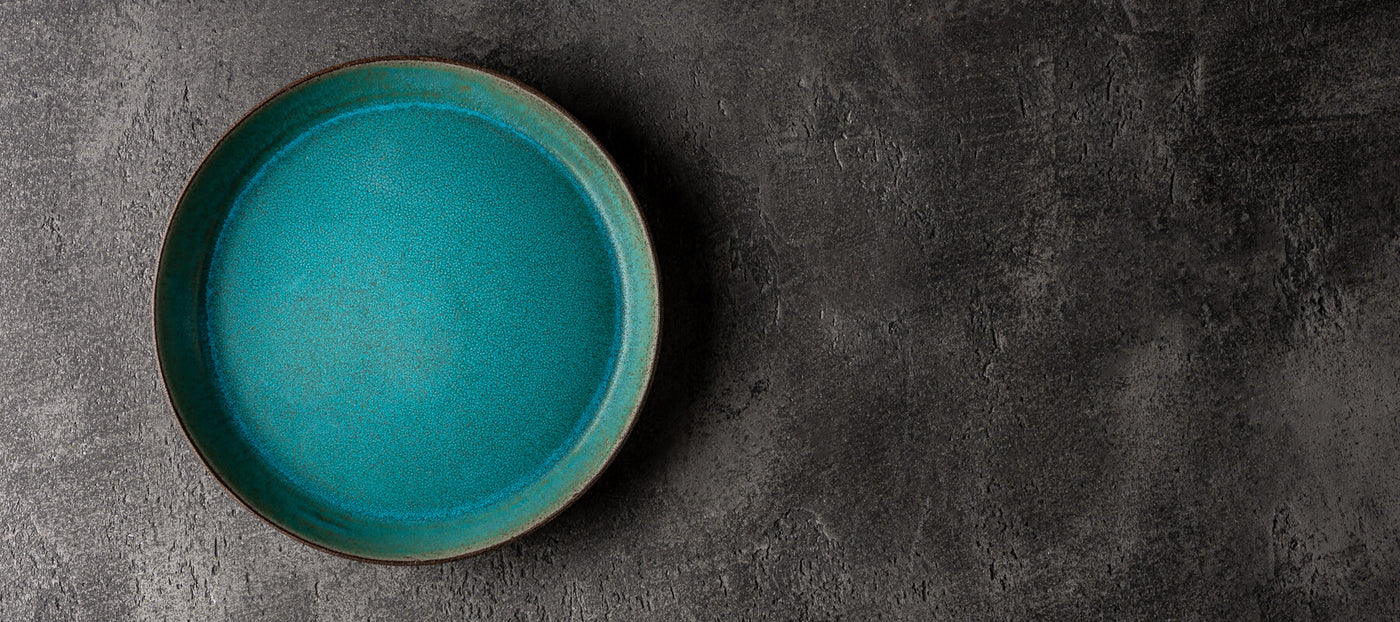
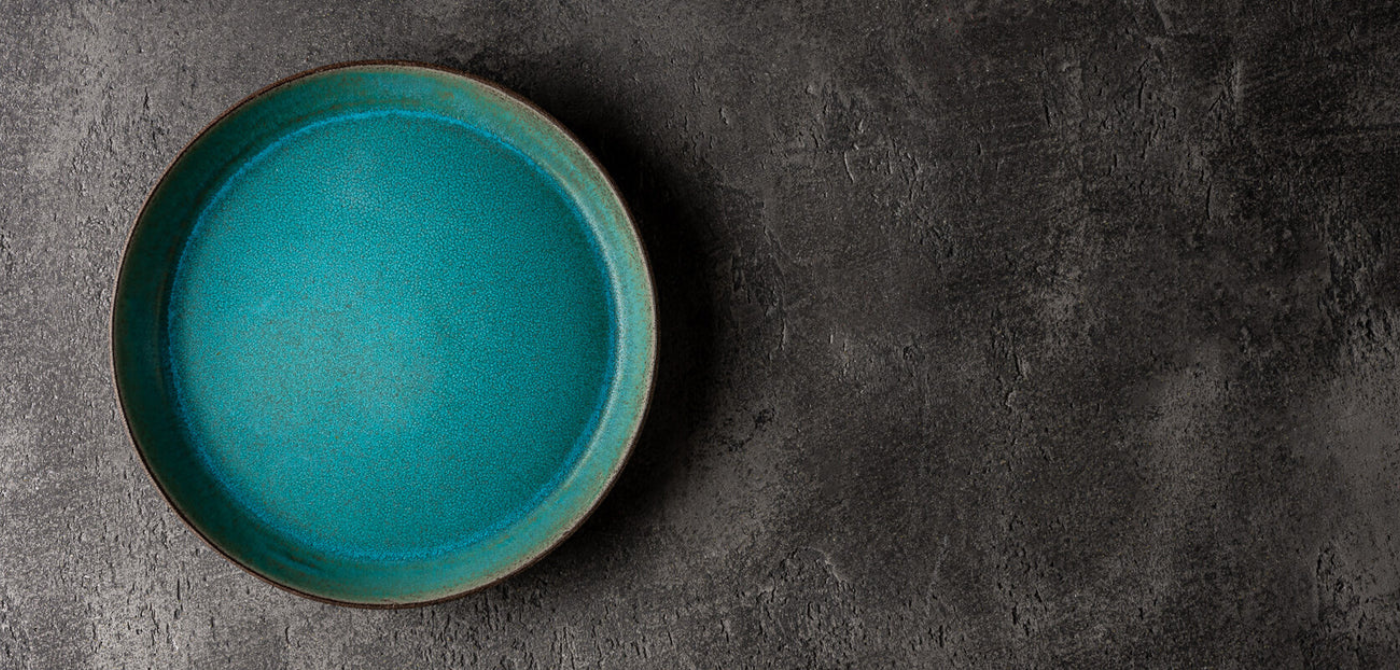
update huong Please enter the commit message foes. Lines starting

diff --git a/index - Copy.html b/index - Copy.html
@@ -116,15 +116,14 @@
         <div id="header-carousel" class="carousel slide" data-bs-ride="carousel">
             <div class="carousel-inner">
                 <div class="carousel-item active">
-                    <img class="w-100" src="img/carousel-1.7.jpg" alt="Image">
+                    <img class="w-100" src="img/carousel-1.5.jpg" alt="Image">
                     <div class="carousel-caption">
                         <div class="container">
                             <div class="row justify-content-start">
                                 <div class="col-lg-7">
                                     <h1 class="display-2 mb-5 animated slideInDown">Exclusive Ceramics and Pottery Retailers </h1>
-                                    <a href="product.html" class="btn btn-primary rounded-pill py-sm-3 px-sm-5">Product</a>
-                                    <a href="product.html" class="btn btn-primary rounded-pill py-sm-3 px-sm-5">Shop Now</a>
-                                
+                                    <a href="product.html" class="btn btn-primary rounded-pill py-sm-3 px-sm-5">Shop our Collection</a>
+                                    <a href="#tab-2" id="hot-summer-sale-button" class="btn btn-primary rounded-pill py-sm-3 px-sm-5">Hot Summer Sale</a>
                                 </div>
                             </div>
                         </div>
@@ -136,31 +135,40 @@
                         <div class="container">
                             <div class="row justify-content-start">
                                 <div class="col-lg-7">
-                                     <!-- 
+                                    <!-- 
                                     <h1 class="display-2 mb-5 animated slideInDown">Transform Your Space with Timeless Ceramics</h1>
                                     <a href="" class="btn btn-primary rounded-pill py-sm-3 px-sm-5">Products</a>
                                     <a href="" class="btn btn-secondary rounded-pill py-sm-3 px-sm-5 ms-3">Services</a>
                                      -->
-                                    
                                 </div>
                             </div>
                         </div>
                     </div>
                 </div>
             </div>
-            <button class="carousel-control-prev" type="button" data-bs-target="#header-carousel"
-                data-bs-slide="prev">
+            <button class="carousel-control-prev" type="button" data-bs-target="#header-carousel" data-bs-slide="prev">
                 <span class="carousel-control-prev-icon" aria-hidden="true"></span>
                 <span class="visually-hidden">Previous</span>
             </button>
-            <button class="carousel-control-next" type="button" data-bs-target="#header-carousel"
-                data-bs-slide="next">
+            <button class="carousel-control-next" type="button" data-bs-target="#header-carousel" data-bs-slide="next">
                 <span class="carousel-control-next-icon" aria-hidden="true"></span>
                 <span class="visually-hidden">Next</span>
             </button>
         </div>
     </div>
     <!-- Carousel End -->
+    <script>
+        document.addEventListener('DOMContentLoaded', function () {
+            document.getElementById('hot-summer-sale-button').addEventListener('click', function(event) {
+                event.preventDefault(); // Ngăn chặn hành động mặc định của liên kết
+                // Kích hoạt tab "Hot Summer Sale"
+                var myTab = new bootstrap.Tab(document.querySelector('a[href="#tab-2"]'));
+                myTab.show();
+                // Cuộn mượt đến phần tử có id là "tab-2"
+                document.getElementById('#tab-2').scrollIntoView({ behavior: 'smooth' });
+            });
+        });
+    </script>
  
     
 
@@ -262,121 +270,15 @@
                 </div>
             </div>
             <div class="tab-content">
-                <!--New Arrivals-->
-                <div id="tab-1" class="tab-pane fade show p-0 active">
-                    <div class="row g-4">
-                        <div class="col-md-4 wow fadeInUp" data-wow-delay="0.1s">
-                            <div class="product-item">
-                                <div class="position-relative bg-light overflow-hidden">
-                                    <a href = "Bloating_Vase.html"><img class = "img-fluid" src="img/product-12.jpg" alt="" ></a>
-                                    <div class="bg-primary rounded text-white position-absolute start-0 top-0 m-4 py-1 px-3">New</div>
-                                </div>
-                                <div class="text-center p-4">
-                                    <a class="d-block h5 mb-2" href="Bloating_Vase.html">Black Cup</a>
-                                    <span class="text-primary me-1">$28.00</span>
-                                </div>
-                                <div class="d-flex border-top">
-                                    <small class="w-50 text-center border-end py-2">
-                                        <a class="text-body" href="Bloating_Vase.html"><i class="fa fa-eye text-primary me-2" ></i>View detail</a>
-                                    </small>
-                                    <small class="w-50 text-center py-2">
-                                        <a class="text-body" onclick="addToCart()"><i class="fa fa-shopping-bag text-primary me-2"></i>Add to cart</a>
-                                    </small>
-                                </div>
-                            </div>
-                        </div>
-                        <div class="col-md-4 wow fadeInUp" data-wow-delay="0.3s">
-                            <div class="product-item">
-                                <div class="position-relative bg-light overflow-hidden">
-                                    <a href = "Basic_White_Vase.html"><img class="img-fluid" src="img/product-2.jpg" alt=""></a>
-                                    <div class="bg-primary rounded text-white position-absolute start-0 top-0 m-4 py-1 px-3">New</div>
-                                </div>
-                                <div class="text-center p-4">
-                                    <a class="d-block h5 mb-2" href="Basic_White_Vase.html">Basic White Vase</a>
-                                    <span class="text-primary me-1">$39.00</span>
-                                </div>
-                                <div class="d-flex border-top">
-                                    <small class="w-50 text-center border-end py-2">
-                                        <a class="text-body" href="Basic_White_Vase.html"><i class="fa fa-eye text-primary me-2"></i>View detail</a>
-                                    </small>
-                                    <small class="w-50 text-center py-2">
-                                        <a class="text-body" onclick="addToCart()"><i class="fa fa-shopping-bag text-primary me-2"></i>Add to cart</a>
-                                    </small>
-                                </div>
-                            </div>
-                        </div>
-                        <div class="col-md-4 wow fadeInUp" data-wow-delay="0.5s">
-                            <div class="product-item">
-                                <div class="position-relative bg-light overflow-hidden">
-                                    <a href = "Weird_White_Vase.html"><img class="img-fluid" src="img/product-4.jpg" alt=""></a>
-                                    <div class="bg-primary rounded text-white position-absolute start-0 top-0 m-4 py-1 px-3">New</div>
-                                </div>
-                                <div class="text-center p-4">
-                                    <a class="d-block h5 mb-2" href="Grayish_Vase.html">Weird White Vase</a>
-                                    <span class="text-primary me-1">$25.00</span>
-                                </div>
-                                <div class="d-flex border-top">
-                                    <small class="w-50 text-center border-end py-2">
-                                        <a class="text-body" href="Weird_White_Vase.html"><i class="fa fa-eye text-primary me-2"></i>View detail</a>
-                                    </small>
-                                    <small class="w-50 text-center py-2">
-                                        <a class="text-body" onclick="addToCart()"><i class="fa fa-shopping-bag text-primary me-2"></i>Add to cart</a>
-                                    </small>
-                                </div>
-                            </div>
-                        </div>
-                        <div class="col-md-4 wow fadeInUp" data-wow-delay="0.3s">
-                            <div class="product-item">
-                                <div class="position-relative bg-light overflow-hidden">
-                                    <a href = "Other_White_Plate.html"><img class="img-fluid" src="img/blog11.webp" alt=""></a>
-                                    <div class="bg-primary rounded text-white position-absolute start-0 top-0 m-4 py-1 px-3">New</div>
-                                </div>
-                                <div class="text-center p-4">
-                                    <a class="d-block h5 mb-2" href="Other_White_Plate.html">Other White Plate</a>
-                                    <span class="text-primary me-1">$30.00</span>
-                                </div>
-                                <div class="d-flex border-top">
-                                    <small class="w-50 text-center border-end py-2">
-                                        <a class="text-body" href="Other_White_Plate.html"><i class="fa fa-eye text-primary me-2"></i>View detail</a>
-                                    </small>
-                                    <small class="w-50 text-center py-2">
-                                        <a class="text-body" onclick="addToCart()"><i class="fa fa-shopping-bag text-primary me-2"></i>Add to cart</a>
-                                    </small>
-                                </div>
-                            </div>
-                        </div>
-                        <div class="col-md-4 wow fadeInUp" data-wow-delay="0.3s">
-                            <div class="product-item">
-                                <div class="position-relative bg-light overflow-hidden">
-                                    <a href = "Basic_White_Vase.html"><img class="img-fluid" src="img/product-8.jpg" alt=""></a>
-                                    <div class="bg-primary rounded text-white position-absolute start-0 top-0 m-4 py-1 px-3">New</div>
-                                </div>
-                                <div class="text-center p-4">
-                                    <a class="d-block h5 mb-2" href="Basic_White_Vase.html">Basic White Vase</a>
-                                    <span class="text-primary me-1">$32.00</span>
-                                </div>
-                                <div class="d-flex border-top">
-                                    <small class="w-50 text-center border-end py-2">
-                                        <a class="text-body" href="Basic_White_Vase.html"><i class="fa fa-eye text-primary me-2"></i>View detail</a>
-                                    </small>
-                                    <small class="w-50 text-center py-2">
-                                        <a class="text-body" onclick="addToCart()"><i class="fa fa-shopping-bag text-primary me-2"></i>Add to cart</a>
-                                    </small>
-                                </div>
-                            </div>
-                        </div> 
-                        <div class="col-12 text-center">
-                            <a class="btn btn-primary rounded-pill py-3 px-5" href="product.html">Browse More Products</a>
-                        </div>                     
-                    </div>
+                <div id="tab-1" class="tab-pane fade show active p-0">
+                    <!-- Nội dung cho tab "New Arrivals" -->
                 </div>
-                <!--Hot Summer Sale -->
-                <div id="tab-2" class="tab-pane fade show p-0">
+                <div id="tab-2" class="tab-pane fade p-0">
                     <div class="row g-4">
                         <div class="col-md-4">
                             <div class="product-item">
                                 <div class="position-relative bg-light overflow-hidden">
-                                    <a href = "Plain_White_Plate.html"><img class="img-fluid" src="img/product-6.jpg" alt=""></a>
+                                    <a href="Plain_White_Plate.html"><img class="img-fluid" src="img/product-6.jpg" alt=""></a>
                                     <div class="bg-secondary rounded text-white position-absolute start-0 top-0 m-4 py-1 px-3">Sale</div>
                                 </div>
                                 <div class="text-center p-4">
@@ -394,204 +296,13 @@
                                 </div>
                             </div>
                         </div>
-                        <div class="col-md-4">
-                            <div class="product-item">
-                                <div class="position-relative bg-light overflow-hidden">
-                                    <a href = "Other_White_Plate.html"><img class="img-fluid" src="img/product-1.jpg" alt=""></a>
-                                    <div class="bg-secondary rounded text-white position-absolute start-0 top-0 m-4 py-1 px-3">Sale</div>
-                                </div>
-                                <div class="text-center p-4">
-                                    <a class="d-block h5 mb-2" href="Other_White_Plate.html">Other White Plate</a>
-                                    <span class="text-primary me-1">$19.00</span>
-                                    <span class="text-body text-decoration-line-through">$29.00</span>
-                                </div>
-                                <div class="d-flex border-top">
-                                    <small class="w-50 text-center border-end py-2">
-                                        <a class="text-body" href="Other_White_Plate.html"><i class="fa fa-eye text-primary me-2"></i>View detail</a>
-                                    </small>
-                                    <small class="w-50 text-center py-2">
-                                        <a class="text-body" onclick="addToCart()"><i class="fa fa-shopping-bag text-primary me-2"></i>Add to cart</a>
-                                    </small>
-                                </div>
-                            </div>
-                        </div>
-                        <div class="col-md-4">
-                            <div class="product-item">
-                                <div class="position-relative bg-light overflow-hidden">
-                                    <a href = "Other_White_Plate.html"><img class="img-fluid" src="img/product-4.jpg" alt=""></a>
-                                    <div class="bg-secondary rounded text-white position-absolute start-0 top-0 m-4 py-1 px-3">Sale</div>
-                                </div>
-                                <div class="text-center p-4">
-                                    <a class="d-block h5 mb-2" href="Other_White_Plate.html">Other White Plate</a>
-                                    <span class="text-primary me-1">$19.00</span>
-                                    <span class="text-body text-decoration-line-through">$29.00</span>
-                                </div>
-                                <div class="d-flex border-top">
-                                    <small class="w-50 text-center border-end py-2">
-                                        <a class="text-body" href="Other_White_Plate.html"><i class="fa fa-eye text-primary me-2"></i>View detail</a>
-                                    </small>
-                                    <small class="w-50 text-center py-2">
-                                        <a class="text-body" onclick="addToCart()"><i class="fa fa-shopping-bag text-primary me-2"></i>Add to cart</a>
-                                    </small>
-                                </div>
-                            </div>
-                        </div>
-                        <div class="col-md-4">
-                            <div class="product-item">
-                                <div class="position-relative bg-light overflow-hidden">
-                                    <a href = "Other_White_Plate.html"><img class="img-fluid" src="img/product-9.jpg" alt=""></a>
-                                    <div class="bg-secondary rounded text-white position-absolute start-0 top-0 m-4 py-1 px-3">Sale</div>
-                                </div>
-                                <div class="text-center p-4">
-                                    <a class="d-block h5 mb-2" href="Other_White_Plate.html">Other White Plate</a>
-                                    <span class="text-secondary me-1">$19.00</span>
-                                    <span class="text-body text-decoration-line-through">$29.00</span>
-                                </div>
-                                <div class="d-flex border-top">
-                                    <small class="w-50 text-center border-end py-2">
-                                        <a class="text-body" href="Other_White_Plate.html"><i class="fa fa-eye text-primary me-2"></i>View detail</a>
-                                    </small>
-                                    <small class="w-50 text-center py-2">
-                                        <a class="text-body" onclick="addToCart()"><i class="fa fa-shopping-bag text-primary me-2"></i>Add to cart</a>
-                                    </small>
-                                </div>
-                            </div>
-                        </div>
-                        <div class="col-md-4">
-                            <div class="product-item">
-                                <div class="position-relative bg-light overflow-hidden">
-                                    <a href = "Other_White_Plate.html"><img class="img-fluid" src="img/product-17.jpg" alt=""></a>
-                                    <div class="bg-secondary rounded text-white position-absolute start-0 top-0 m-4 py-1 px-3">Sale</div>
-                                </div>
-                                <div class="text-center p-4">
-                                    <a class="d-block h5 mb-2" href="Other_White_Plate.html">Other White Plate</a>
-                                    <span class="text-primary me-1">$19.00</span>
-                                    <span class="text-body text-decoration-line-through">$29.00</span>
-                                </div>
-                                <div class="d-flex border-top">
-                                    <small class="w-50 text-center border-end py-2">
-                                        <a class="text-body" href="Other_White_Plate.html"><i class="fa fa-eye text-primary me-2"></i>View detail</a>
-                                    </small>
-                                    <small class="w-50 text-center py-2">
-                                        <a class="text-body" onclick="addToCart()"><i class="fa fa-shopping-bag text-primary me-2"></i>Add to cart</a>
-                                    </small>
-                                </div>
-                            </div>
-                        </div>
-                        <div class="col-md-4">
-                            <div class="product-item">
-                                <div class="position-relative bg-light overflow-hidden">
-                                    <a href = "Other_White_Plate.html"><img class="img-fluid" src="img/product-13.jpg" alt=""></a>
-                                    <div class="bg-secondary rounded text-white position-absolute start-0 top-0 m-4 py-1 px-3">Sale</div>
-                                </div>
-                                <div class="text-center p-4">
-                                    <a class="d-block h5 mb-2" href="Other_White_Plate.html">Other White Plate</a>
-                                    <span class="text-primary me-1">$15.00</span>
-                                    <span class="text-body text-decoration-line-through">$29.00</span>
-                                </div>
-                                <div class="d-flex border-top">
-                                    <small class="w-50 text-center border-end py-2">
-                                        <a class="text-body" href="Other_White_Plate.html"><i class="fa fa-eye text-primary me-2"></i>View detail</a>
-                                    </small>
-                                    <small class="w-50 text-center py-2">
-                                        <a class="text-body" onclick="addToCart()"><i class="fa fa-shopping-bag text-primary me-2"></i>Add to cart</a>
-                                    </small>
-                                </div>
-                            </div>
-                        </div>
-                        <div class="col-md-4">
-                            <div class="product-item">
-                                <div class="position-relative bg-light overflow-hidden">
-                                    <a href = "Other_White_Plate.html"><img class="img-fluid" src="img/product-20.jpg" alt=""></a>
-                                    <div class="bg-secondary rounded text-white position-absolute start-0 top-0 m-4 py-1 px-3">Sale</div>
-                                </div>
-                                <div class="text-center p-4">
-                                    <a class="d-block h5 mb-2" href="Other_White_Plate.html">Other White Plate</a>
-                                    <span class="text-primary me-1">$19.00</span>
-                                    <span class="text-body text-decoration-line-through">$29.00</span>
-                                </div>
-                                <div class="d-flex border-top">
-                                    <small class="w-50 text-center border-end py-2">
-                                        <a class="text-body" href="Other_White_Plate.html"><i class="fa fa-eye text-primary me-2"></i>View detail</a>
-                                    </small>
-                                    <small class="w-50 text-center py-2">
-                                        <a class="text-body" onclick="addToCart()"><i class="fa fa-shopping-bag text-primary me-2"></i>Add to cart</a>
-                                    </small>
-                                </div>
-                            </div>
-                        </div>
-                        <div class="col-md-4">
-                            <div class="product-item">
-                                <div class="position-relative bg-light overflow-hidden">
-                                    <a href = "Other_White_Plate.html"><img class="img-fluid" src="img/blog8.webp" alt=""></a>
-                                    <div class="bg-secondary rounded text-white position-absolute start-0 top-0 m-4 py-1 px-3">Sale</div>
-                                </div>
-                                <div class="text-center p-4">
-                                    <a class="d-block h5 mb-2" href="Other_White_Plate.html">Other White Plate</a>
-                                    <span class="text-primary me-1">$19.00</span>
-                                    <span class="text-body text-decoration-line-through">$29.00</span>
-                                </div>
-                                <div class="d-flex border-top">
-                                    <small class="w-50 text-center border-end py-2">
-                                        <a class="text-body" href="Other_White_Plate.html"><i class="fa fa-eye text-primary me-2"></i>View detail</a>
-                                    </small>
-                                    <small class="w-50 text-center py-2">
-                                        <a class="text-body" onclick="addToCart()"><i class="fa fa-shopping-bag text-primary me-2"></i>Add to cart</a>
-                                    </small>
-                                </div>
-                            </div>
-                        </div>
-                        <div class="col-md-4">
-                            <div class="product-item">
-                                <div class="position-relative bg-light overflow-hidden">
-                                    <a href = "Other_White_Plate.html"><img class="img-fluid" src="img/blog7.webp" alt=""></a>
-                                    <div class="bg-secondary rounded text-white position-absolute start-0 top-0 m-4 py-1 px-3">Sale</div>
-                                </div>
-                                <div class="text-center p-4">
-                                    <a class="d-block h5 mb-2" href="Other_White_Plate.html">Other White Plate</a>
-                                    <span class="text-primary me-1">$19.00</span>
-                                    <span class="text-body text-decoration-line-through">$29.00</span>
-                                </div>
-                                <div class="d-flex border-top">
-                                    <small class="w-50 text-center border-end py-2">
-                                        <a class="text-body" href="Other_White_Plate.html"><i class="fa fa-eye text-primary me-2"></i>View detail</a>
-                                    </small>
-                                    <small class="w-50 text-center py-2">
-                                        <a class="text-body" onclick="addToCart()"><i class="fa fa-shopping-bag text-primary me-2"></i>Add to cart</a>
-                                    </small>
-                                </div>
-                            </div>
-                        </div>
-                        <div class="col-md-4">
-                            <div class="product-item">
-                                <div class="position-relative bg-light overflow-hidden">
-                                    <a href = "Other_White_Plate.html"><img class="img-fluid" src="img/blog13.jpg" alt=""></a>
-                                    <div class="bg-secondary rounded text-white position-absolute start-0 top-0 m-4 py-1 px-3">Sale</div>
-                                </div>
-                                <div class="text-center p-4">
-                                    <a class="d-block h5 mb-2" href="Other_White_Plate.html">Other White Plate</a>
-                                    <span class="text-primary me-1">$26.00</span>
-                                    <span class="text-body text-decoration-line-through">$49.00</span>
-                                </div>
-                                <div class="d-flex border-top">
-                                    <small class="w-50 text-center border-end py-2">
-                                        <a class="text-body" href="Other_White_Plate.html"><i class="fa fa-eye text-primary me-2"></i>View detail</a>
-                                    </small>
-                                    <small class="w-50 text-center py-2">
-                                        <a class="text-body" onclick="addToCart()"><i class="fa fa-shopping-bag text-primary me-2"></i>Add to cart</a>
-                                    </small>
-                                </div>
-                            </div>
-                        </div>
-                        <div class="col-12 text-center">
-                            <a class="btn btn-primary rounded-pill py-3 px-5" href="product.html">Browse More Products</a>
-                        </div>
+                        <!-- Thêm các sản phẩm khác ở đây -->
                     </div>
                 </div>
             </div>
         </div>
     </div>
-            
+    <!-- Product End -->
        
     <!-- Product End -->
 
